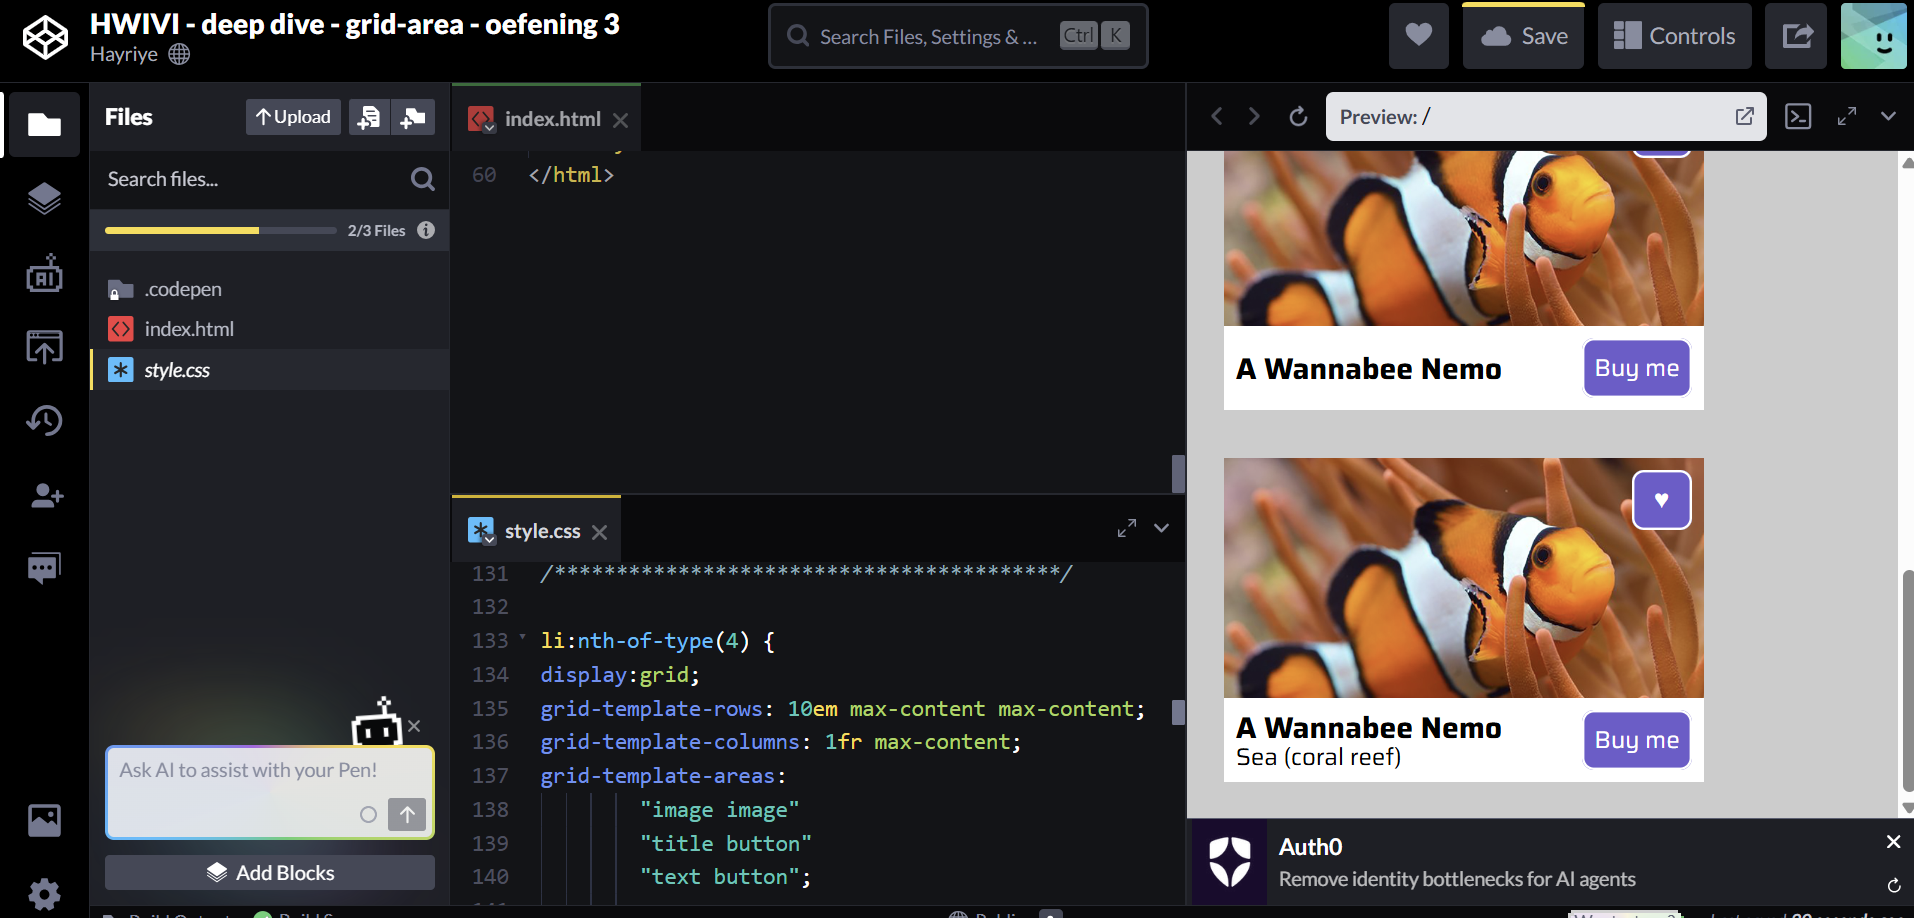
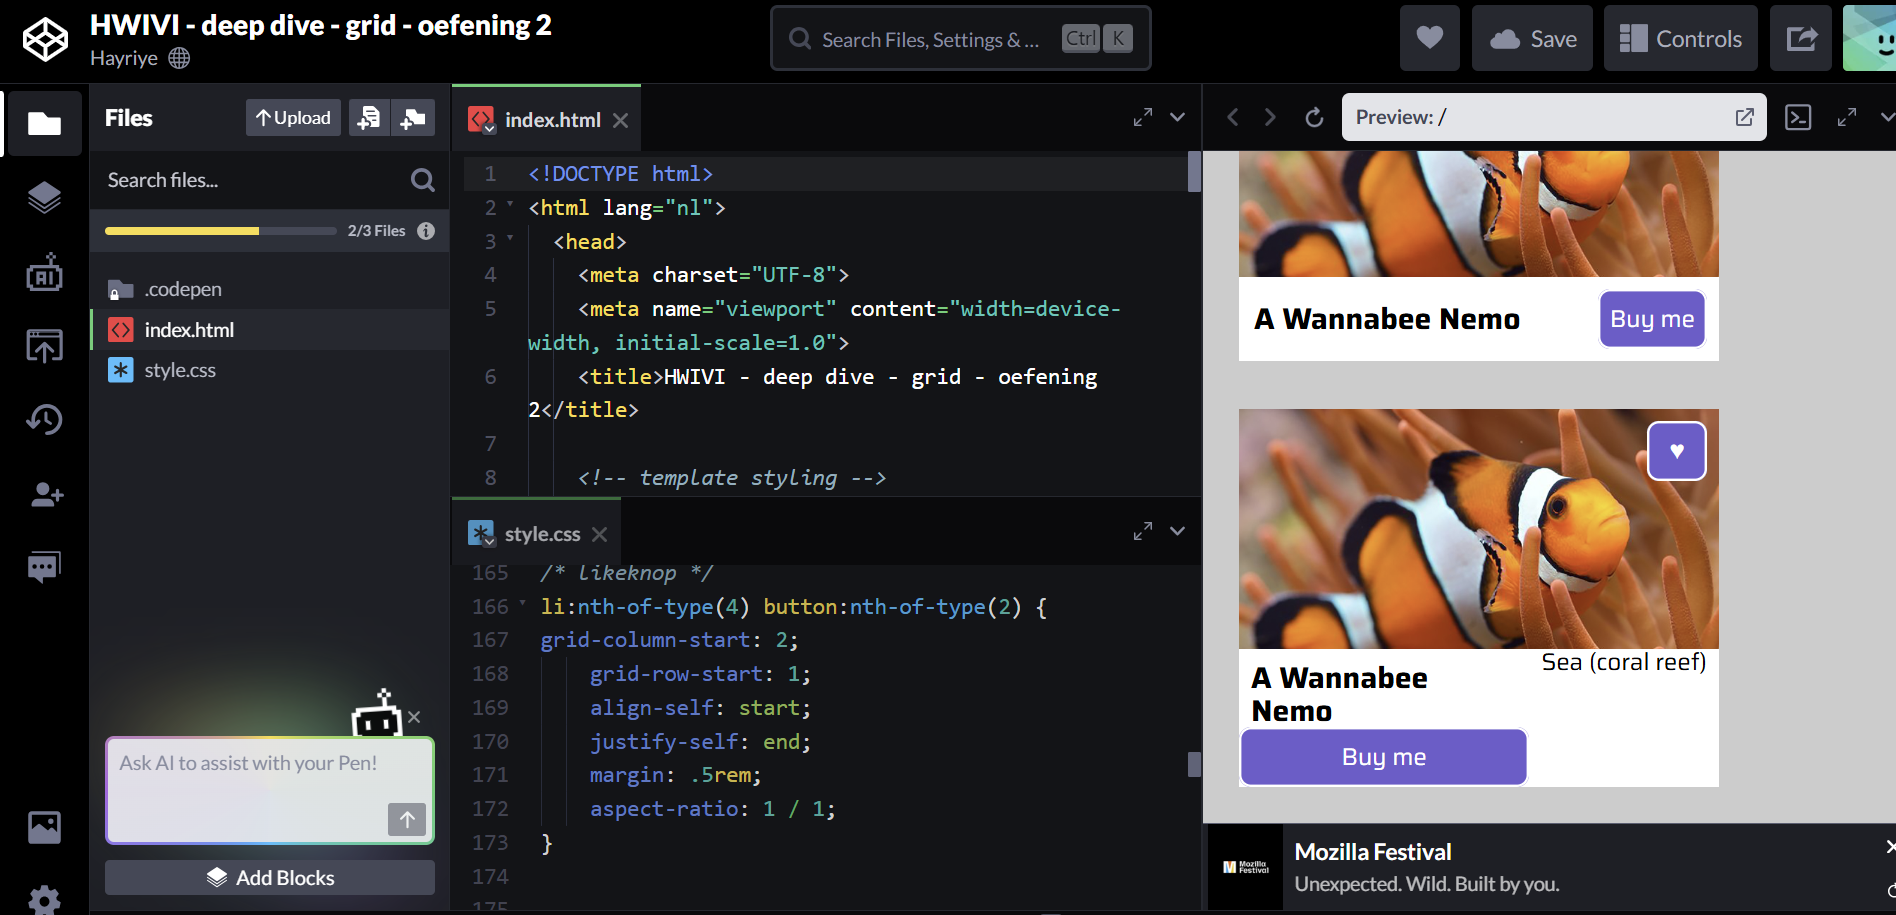
update readme

diff --git a/README.md b/README.md
@@ -260,7 +260,7 @@ Ik vind screenreader-gebruikers het lastigst. Soms ziet iets er goed uit, maar i
 
 
 
-### Door een paar problemen heb ik mijn learning log tussen deze twee data niet goed kunnen bijwerken. In deze periode heb ik wel verder gewerkt aan mijn website, maar ik heb niet alles meteen kunnen toevoegen aan mijn README.Ik wil deze ontbrekende stappen zo snel mogelijk aanvullen en mijn learning log weer helemaal bijwerken.
+### Door een paar problemen heb ik mijn learning log tussen deze twee data niet goed kunnen bijwerken. In deze periode heb ik wel verder gewerkt aan mijn website, maar ik heb niet alles meteen kunnen toevoegen aan mijn README. Ik wil deze ontbrekende stappen zo snel mogelijk aanvullen en mijn learning log weer helemaal bijwerken.
 
 
 ## 18 september – Feedback Sprint 1 + Retrospect
@@ -314,6 +314,86 @@ In sprint 2 wil ik:
 - Google Fonts vervangen door `@font-face`.
 
 
+### Check-out – 18 september
+
+- Waarom geven de docenten deze opdracht?
+  Om beter te leren werken met HTML en CSS en zelf een persoonlijke website te maken.
+
+- Welke technieken gebruik ik?
+  Ik gebruik HTML voor de structuur en CSS voor de vormgeving.
+
+- Wat zijn de randvoorwaarden?
+  Mijn website moet toegankelijk zijn en goed werken op verschillende schermen. Ik moet ook rekening houden met mijn tijd en kennis.
+
+- Waar gebruik je HTML/CSS voor?
+  Met HTML maak ik de inhoud en structuur. Met CSS pas ik kleuren, lettertypes en de layout aan.
+
+- Wat kan er allemaal met CSS?
+  Met CSS kan ik veel veranderen, zoals kleuren, afstanden, achtergronden en animaties. Ik moet nog veel ontdekken.
+
+- Lukt het om verschillende ideeën te bedenken?
+  Ja, ik had veel ideeën en heb visual research gedaan. Maar ik vond het moeilijk om één richting te kiezen.
+
+- Lukt het om je ideeën te schetsen?
+  Ik heb geprobeerd mijn ideeën visueel uit te werken, maar het was lastig om ze daarna met code te maken.
+
+- Wat doet deze CSS-property?
+  Ik probeer verschillende CSS-properties uit om te zien wat ze doen. Soms werkt iets anders dan ik had verwacht.
+
+- Welke content en HTML heb ik nodig?
+  Ik wil mijn interesses, foto's en persoonlijke verhalen delen. Hiervoor heb ik onder andere een header, navigatie, afbeeldingen en sections nodig.
+
+- Hoe kan ik dit soort content vormgeven?
+  Ik wil rustige kleuren, passende afbeeldingen en genoeg witruimte gebruiken.
+
+- Wat als ik hier nu eens 1000 invul?
+  Ik merk dat ik vaak voorzichtig ben met CSS. Ik wil meer experimenteren met verschillende waardes.
+
+- Begrijpen bezoekers de site?
+  Mijn website is nog vrij eenvoudig en overzichtelijk, maar mijn oorspronkelijke concept is nog niet duidelijk zichtbaar.
+
+- Wat vindt de opdrachtgever ervan?
+  Sanne vond mijn oorspronkelijke idee met de wilg interessant, maar mijn website was nog te algemeen.
+
+- Werkt dit wel?
+  De basis van mijn website werkt, maar sommige ideeën zijn moeilijker te maken dan ik dacht.
+
+- Oooooh, kan dit ook?!
+  Ik ontdek steeds nieuwe mogelijkheden met CSS. Ik vind het leuk om dingen uit te proberen.
+
+- Wat wilde ik weten/bereiken?
+  Ik wilde mijn idee van Onder de Wilg omzetten naar een persoonlijke website.
+
+- Wat heb ik gedaan?
+  Ik heb visual research gedaan, verschillende ideeën onderzocht en een eerste versie van mijn website gemaakt.
+
+- Wat was het resultaat?
+  Ik heb een werkende basis, maar mijn website lijkt nog niet op wat ik oorspronkelijk wilde maken.
+
+- Wat weet ik nu (niet)?
+  Ik begrijp HTML en CSS steeds beter, maar ik vind het nog moeilijk om mijn ideeën precies zo uit te werken als ik wil.
+
+- Wat vond ik (niet) leuk?
+  Ik vond het leuk om ideeën te bedenken en inspiratie te zoeken. Het coderen vond ik soms frustrerend omdat niet alles lukte.
+
+- Voldoet het nog aan de eisen?
+  Nog niet helemaal. Ik moet mijn website persoonlijker en toegankelijker maken.
+
+- HTML-validatie
+  Ik moet mijn HTML nog beter controleren en kijken of ik de juiste elementen gebruik.
+
+- Toegankelijkheids-check
+  Ik moet nog controleren of mijn website goed werkt met het toetsenbord en een screenreader.
+
+- Is mijn website nog wel adaptief?
+  Nog niet helemaal. Ik wil in de volgende sprint werken aan responsive design en verschillende thema's.
+
+- Voldoet mijn website nog wel aan de wet?
+  Ik heb geleerd dat ik Google Fonts niet mag gebruiken voor deze opdracht. Daarom wil ik overstappen op lokale fonts met `@font-face`.
+
+- Zie ik mezelf nog wel terug in wat ik doe?
+  Nog niet genoeg. Mijn website is nu vrij algemeen. Ik wil terug naar mijn oorspronkelijke idee en de wilg weer centraal zetten.
+
 
 
 
@@ -329,7 +409,30 @@ Daarom heb ik besloten om terug te gaan naar een simpelere basis. Ik heb gekozen
 Ik heb deze vorm gekozen omdat hij simpel genoeg is om nu goed te bouwen, maar nog steeds ruimte geeft om later mijn eigen stijl, foto's, boeken en andere persoonlijke dingen toe te voegen.
 
 ![Website2](readme-images/eersteversie.png)
-![Website1](readme-images/11-eersteversie1.png)
+![Website1](readme-images/eersteversie1.png)
+
+### Check-out
+Wanneer wordt een website lelijk?
+Een website wordt lelijk als de kleuren niet bij elkaar passen of als de onderdelen rommelig staan. Ik probeer daarom rustige kleuren te kiezen en genoeg ruimte tussen de onderdelen te laten. Ook wil ik zorgen dat de tekst goed leesbaar blijft.
+
+Wat is mijn volgende stap om mijn website responsive te maken?
+Ik ben begonnen met de basis van mijn website. Mijn volgende stap is om met media queries te werken, zodat mijn website ook op kleinere schermen goed werkt. Ik wil ook kijken of mijn afbeeldingen en teksten zich goed aanpassen.
+
+Hoe kan ik mijn Garden onderbouwen met Webby vocabulaire?
+Ik ben bezig met het opbouwen van mijn Garden. Met HTML maak ik de structuur en met CSS pas ik de styling aan. Ik gebruik Flexbox en Grid om de layout te verdelen. Ik probeer stap voor stap mijn oorspronkelijke idee uit te werken en let daarbij op kleuren, witruimte en een duidelijke navigatie.
+
+
+
+
+## Grid Areas – Deep Dive
+
+Ik heb de oefeningen over Grid Areas op CodePen gemaakt. Hierbij heb ik geleerd hoe ik met `grid-template-areas` een layout kan indelen en met `grid-area` kan bepalen waar elk element komt te staan.
+Ik heb ook geoefend met het veranderen van de indeling, zodat de elementen op verschillende schermformaten een andere plek kunnen krijgen.
+ 
+![oefening](readme-images/gridarea1.png)
+![oefening](readme-images/gridarea2.png)
+![oefening](readme-images/gridarea3.png)
+
 
 ### 14 september
 
